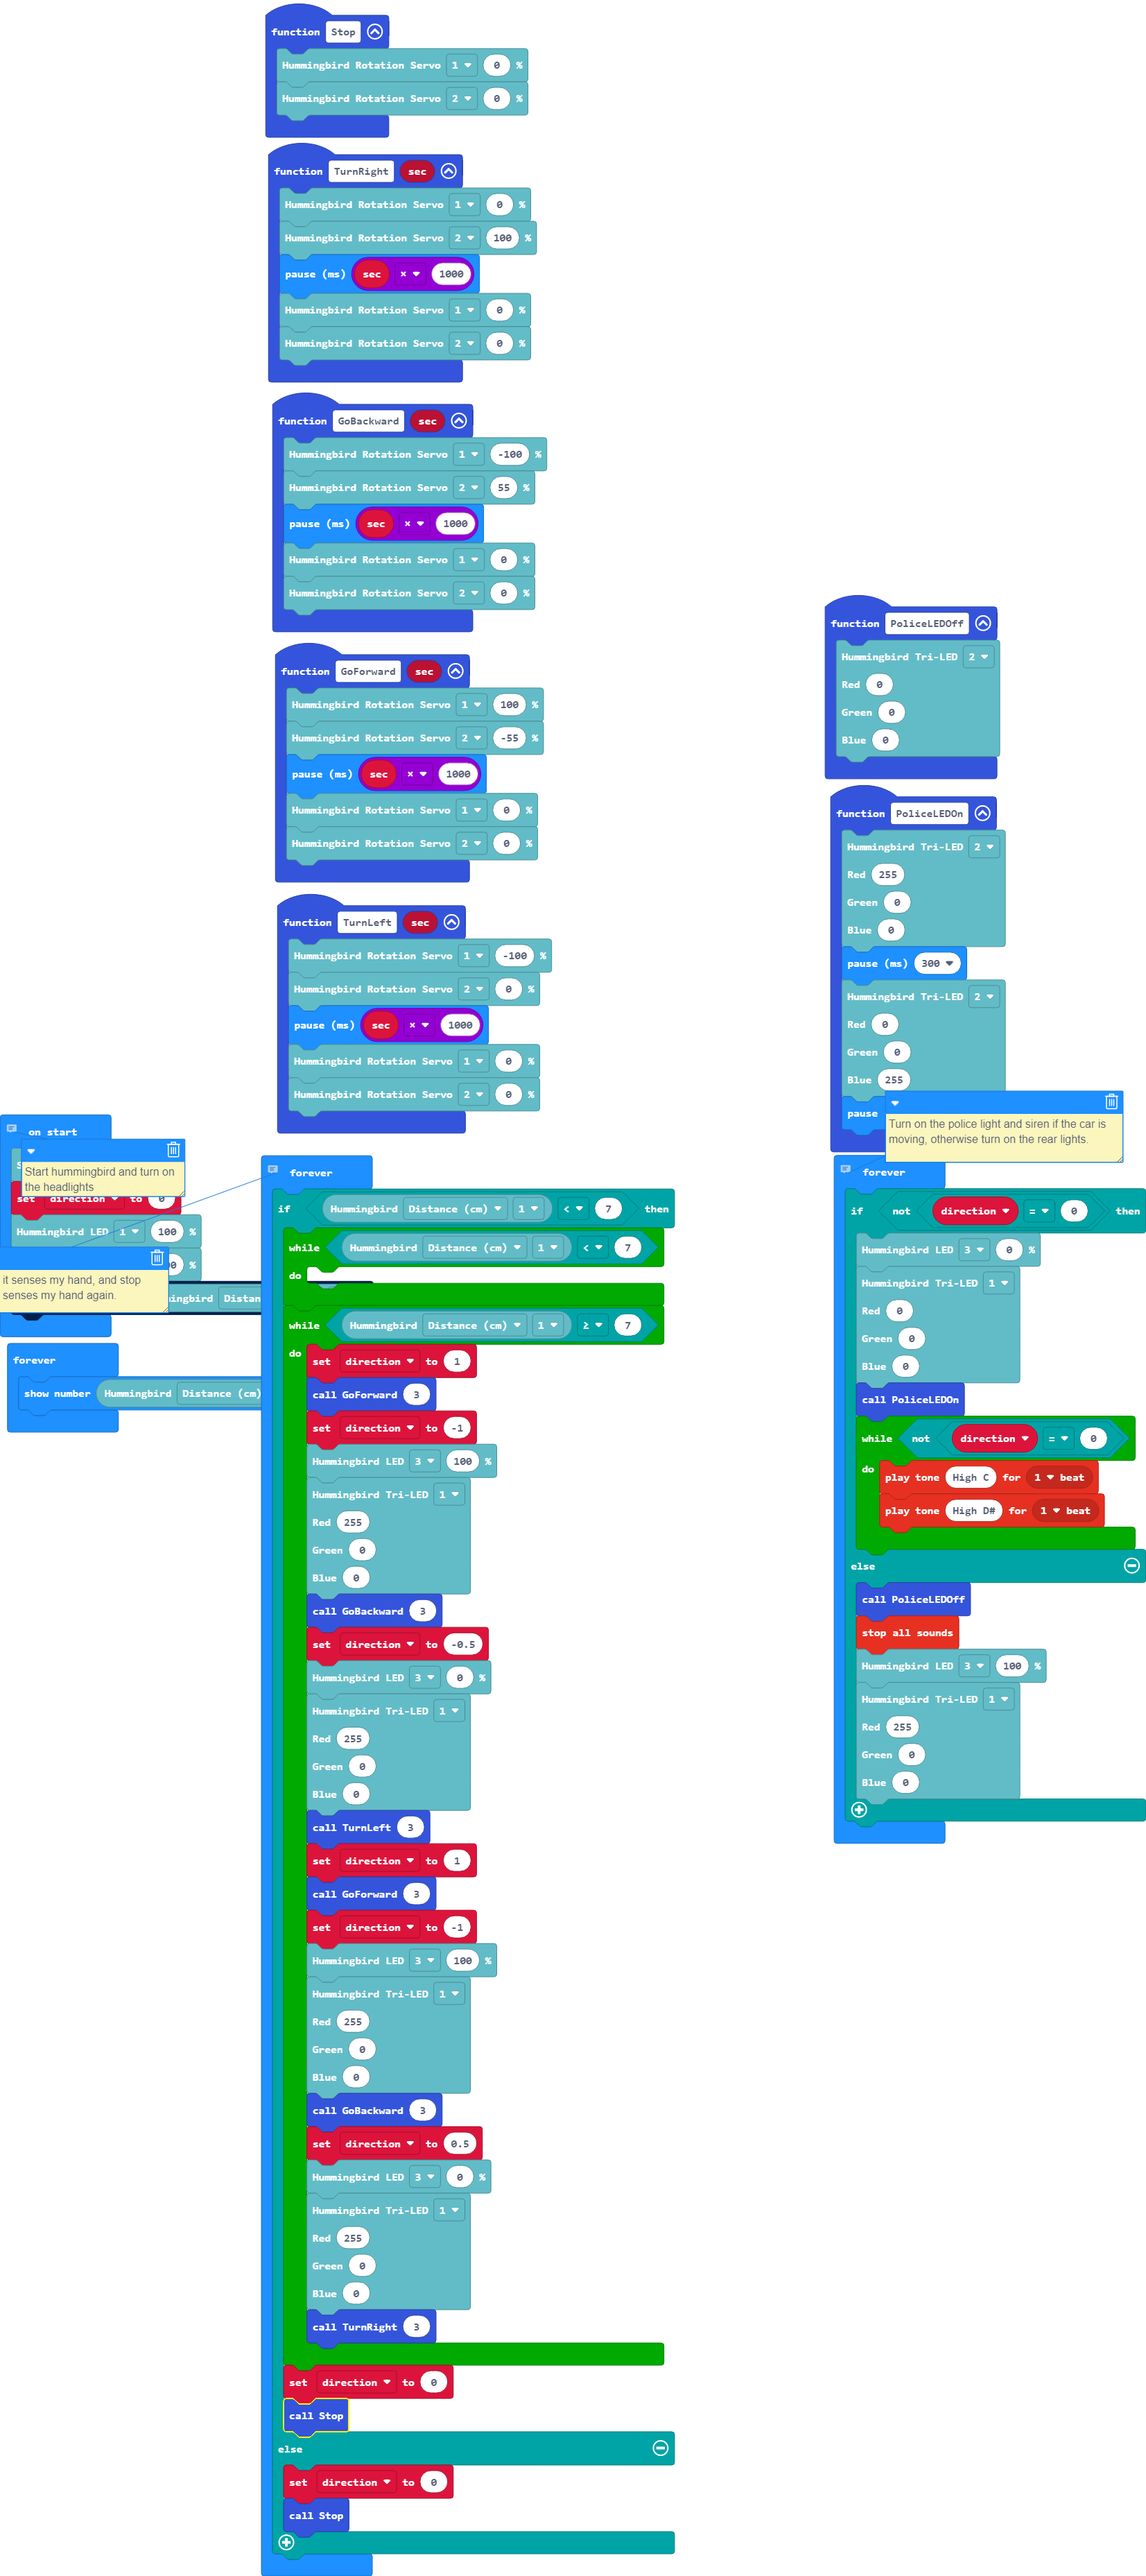
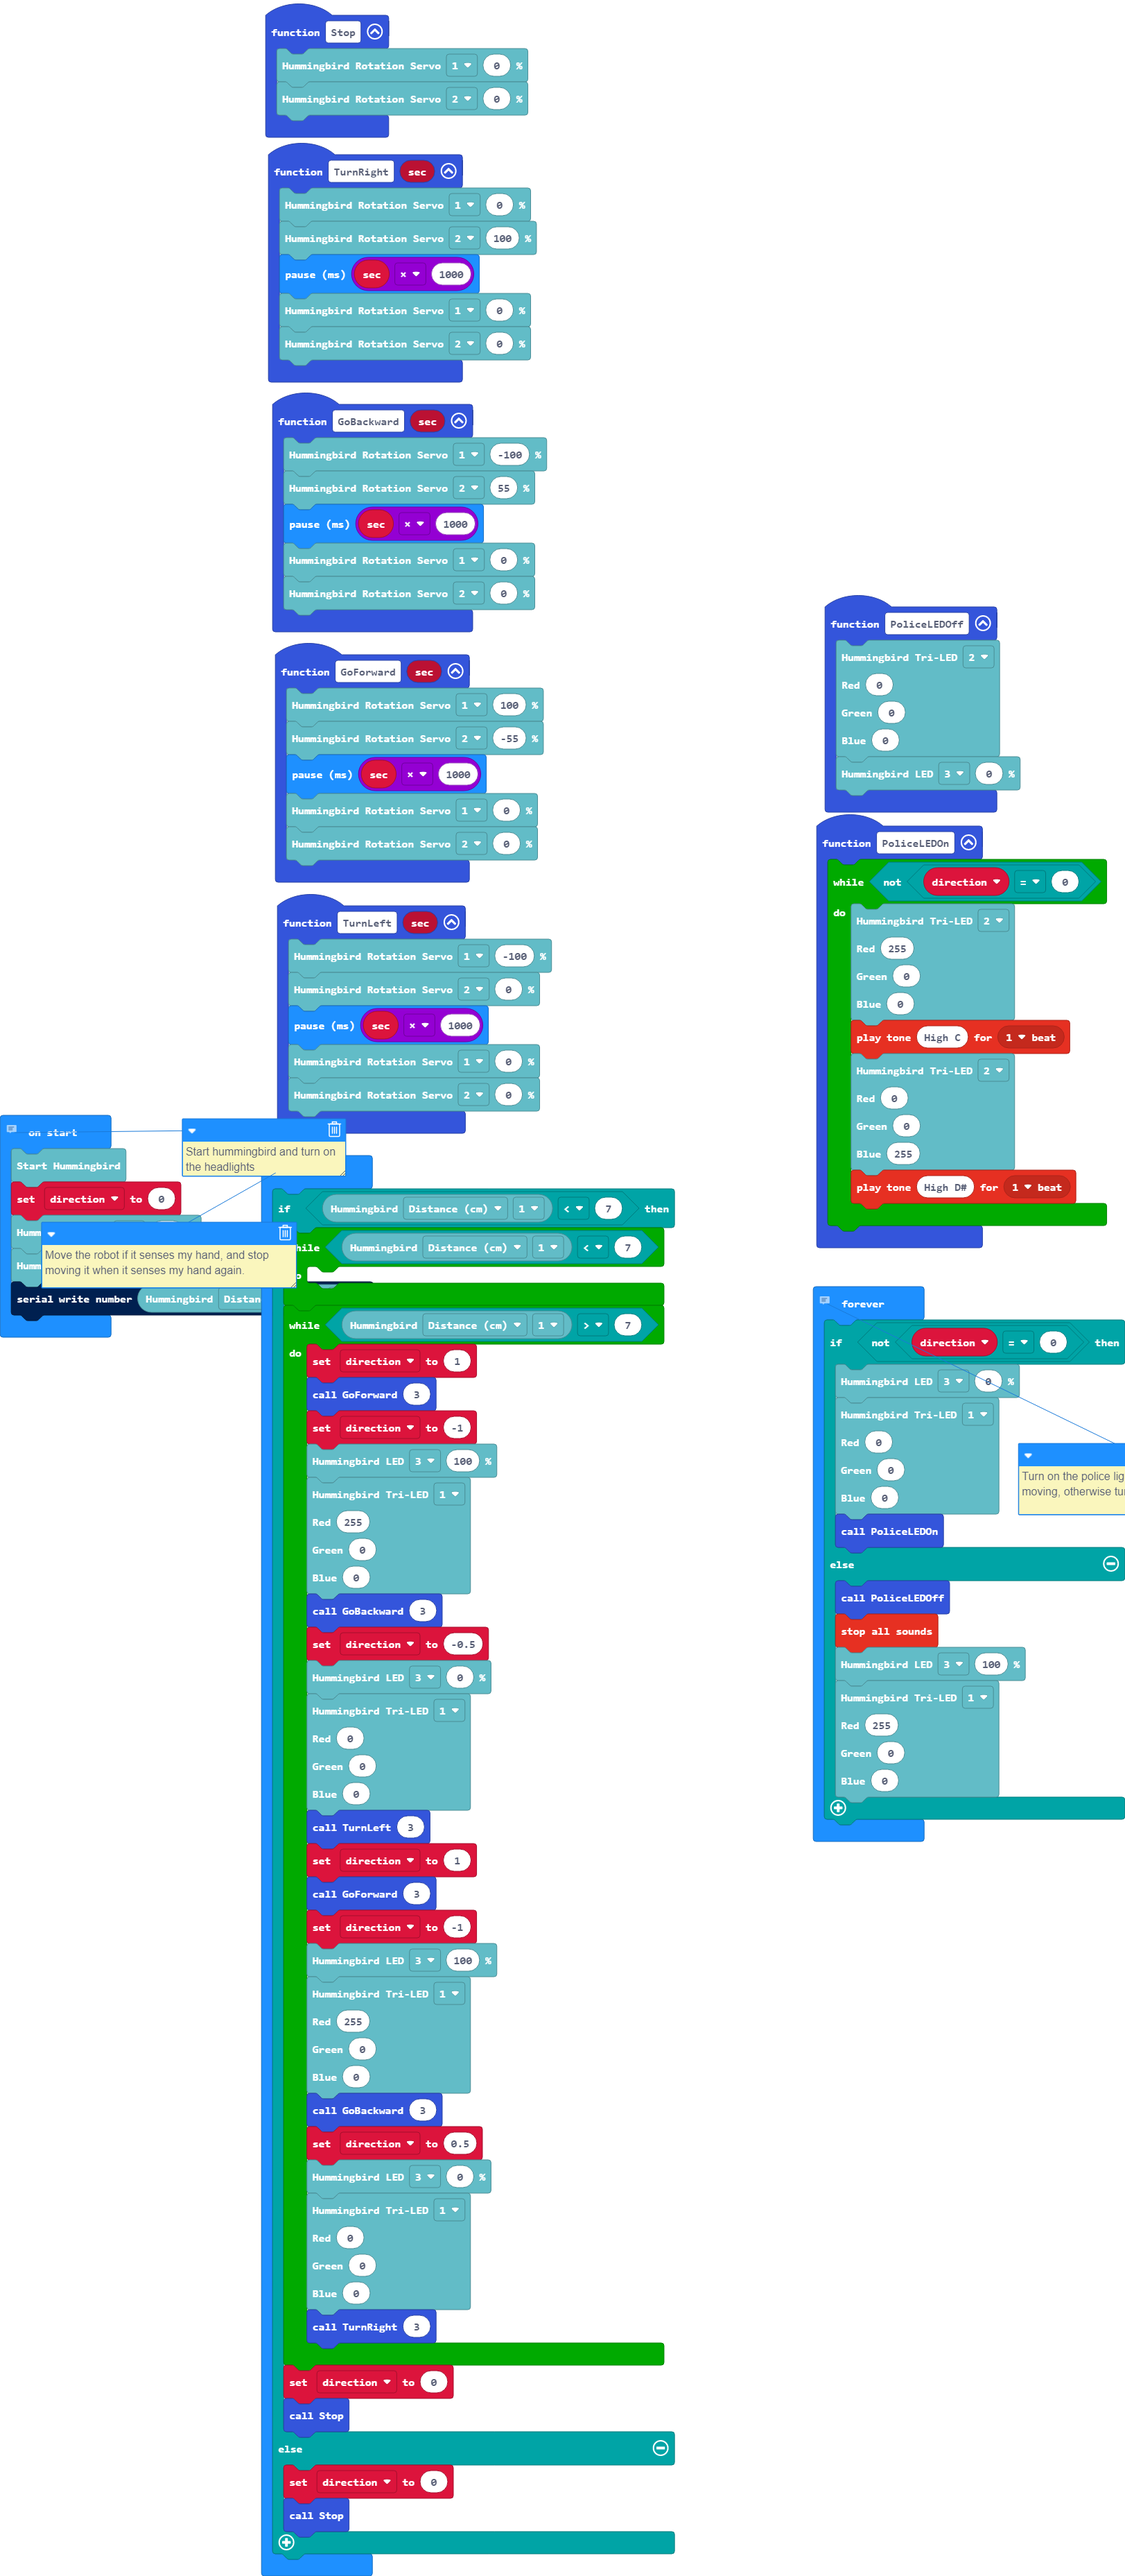
Update main.blocks, main.ts

diff --git a/main.ts b/main.ts
@@ -19,22 +19,25 @@ function PoliceLEDOff () {
     0,
     0
     )
+    hummingbird.setLED(ThreePort.Three, 0)
 }
 function PoliceLEDOn () {
-    hummingbird.setTriLED(
-    TwoPort.Two,
-    255,
-    0,
-    0
-    )
-    basic.pause(300)
-    hummingbird.setTriLED(
-    TwoPort.Two,
-    0,
-    0,
-    255
-    )
-    basic.pause(300)
+    while (!(direction == 0)) {
+        hummingbird.setTriLED(
+        TwoPort.Two,
+        255,
+        0,
+        0
+        )
+        music.playTone(523, music.beat(BeatFraction.Whole))
+        hummingbird.setTriLED(
+        TwoPort.Two,
+        0,
+        0,
+        255
+        )
+        music.playTone(622, music.beat(BeatFraction.Whole))
+    }
 }
 function GoBackward (sec: number) {
     hummingbird.setRotationServo(FourPort.One, -100)
@@ -55,8 +58,9 @@ function Stop () {
     hummingbird.setRotationServo(FourPort.Two, 0)
 }
 // Start hummingbird and turn on the headlights
-hummingbird.startHummingbird()
 let direction = 0
+hummingbird.startHummingbird()
+direction = 0
 hummingbird.setLED(ThreePort.One, 100)
 hummingbird.setLED(ThreePort.Two, 100)
 serial.writeNumber(hummingbird.getSensor(SensorType.Distance, ThreePort.One))
@@ -66,7 +70,7 @@ basic.forever(function () {
         while (hummingbird.getSensor(SensorType.Distance, ThreePort.One) < 7) {
         	
         }
-        while (hummingbird.getSensor(SensorType.Distance, ThreePort.One) >= 7) {
+        while (hummingbird.getSensor(SensorType.Distance, ThreePort.One) > 7) {
             direction = 1
             GoForward(3)
             direction = -1
@@ -82,7 +86,7 @@ basic.forever(function () {
             hummingbird.setLED(ThreePort.Three, 0)
             hummingbird.setTriLED(
             TwoPort.One,
-            255,
+            0,
             0,
             0
             )
@@ -102,7 +106,7 @@ basic.forever(function () {
             hummingbird.setLED(ThreePort.Three, 0)
             hummingbird.setTriLED(
             TwoPort.One,
-            255,
+            0,
             0,
             0
             )
@@ -126,10 +130,6 @@ basic.forever(function () {
         0
         )
         PoliceLEDOn()
-        while (!(direction == 0)) {
-            music.playTone(523, music.beat(BeatFraction.Whole))
-            music.playTone(622, music.beat(BeatFraction.Whole))
-        }
     } else {
         PoliceLEDOff()
         music.stopAllSounds()
@@ -141,7 +141,4 @@ basic.forever(function () {
         0
         )
     }
-})
-basic.forever(function () {
-    basic.showNumber(hummingbird.getSensor(SensorType.Distance, ThreePort.One))
 })
